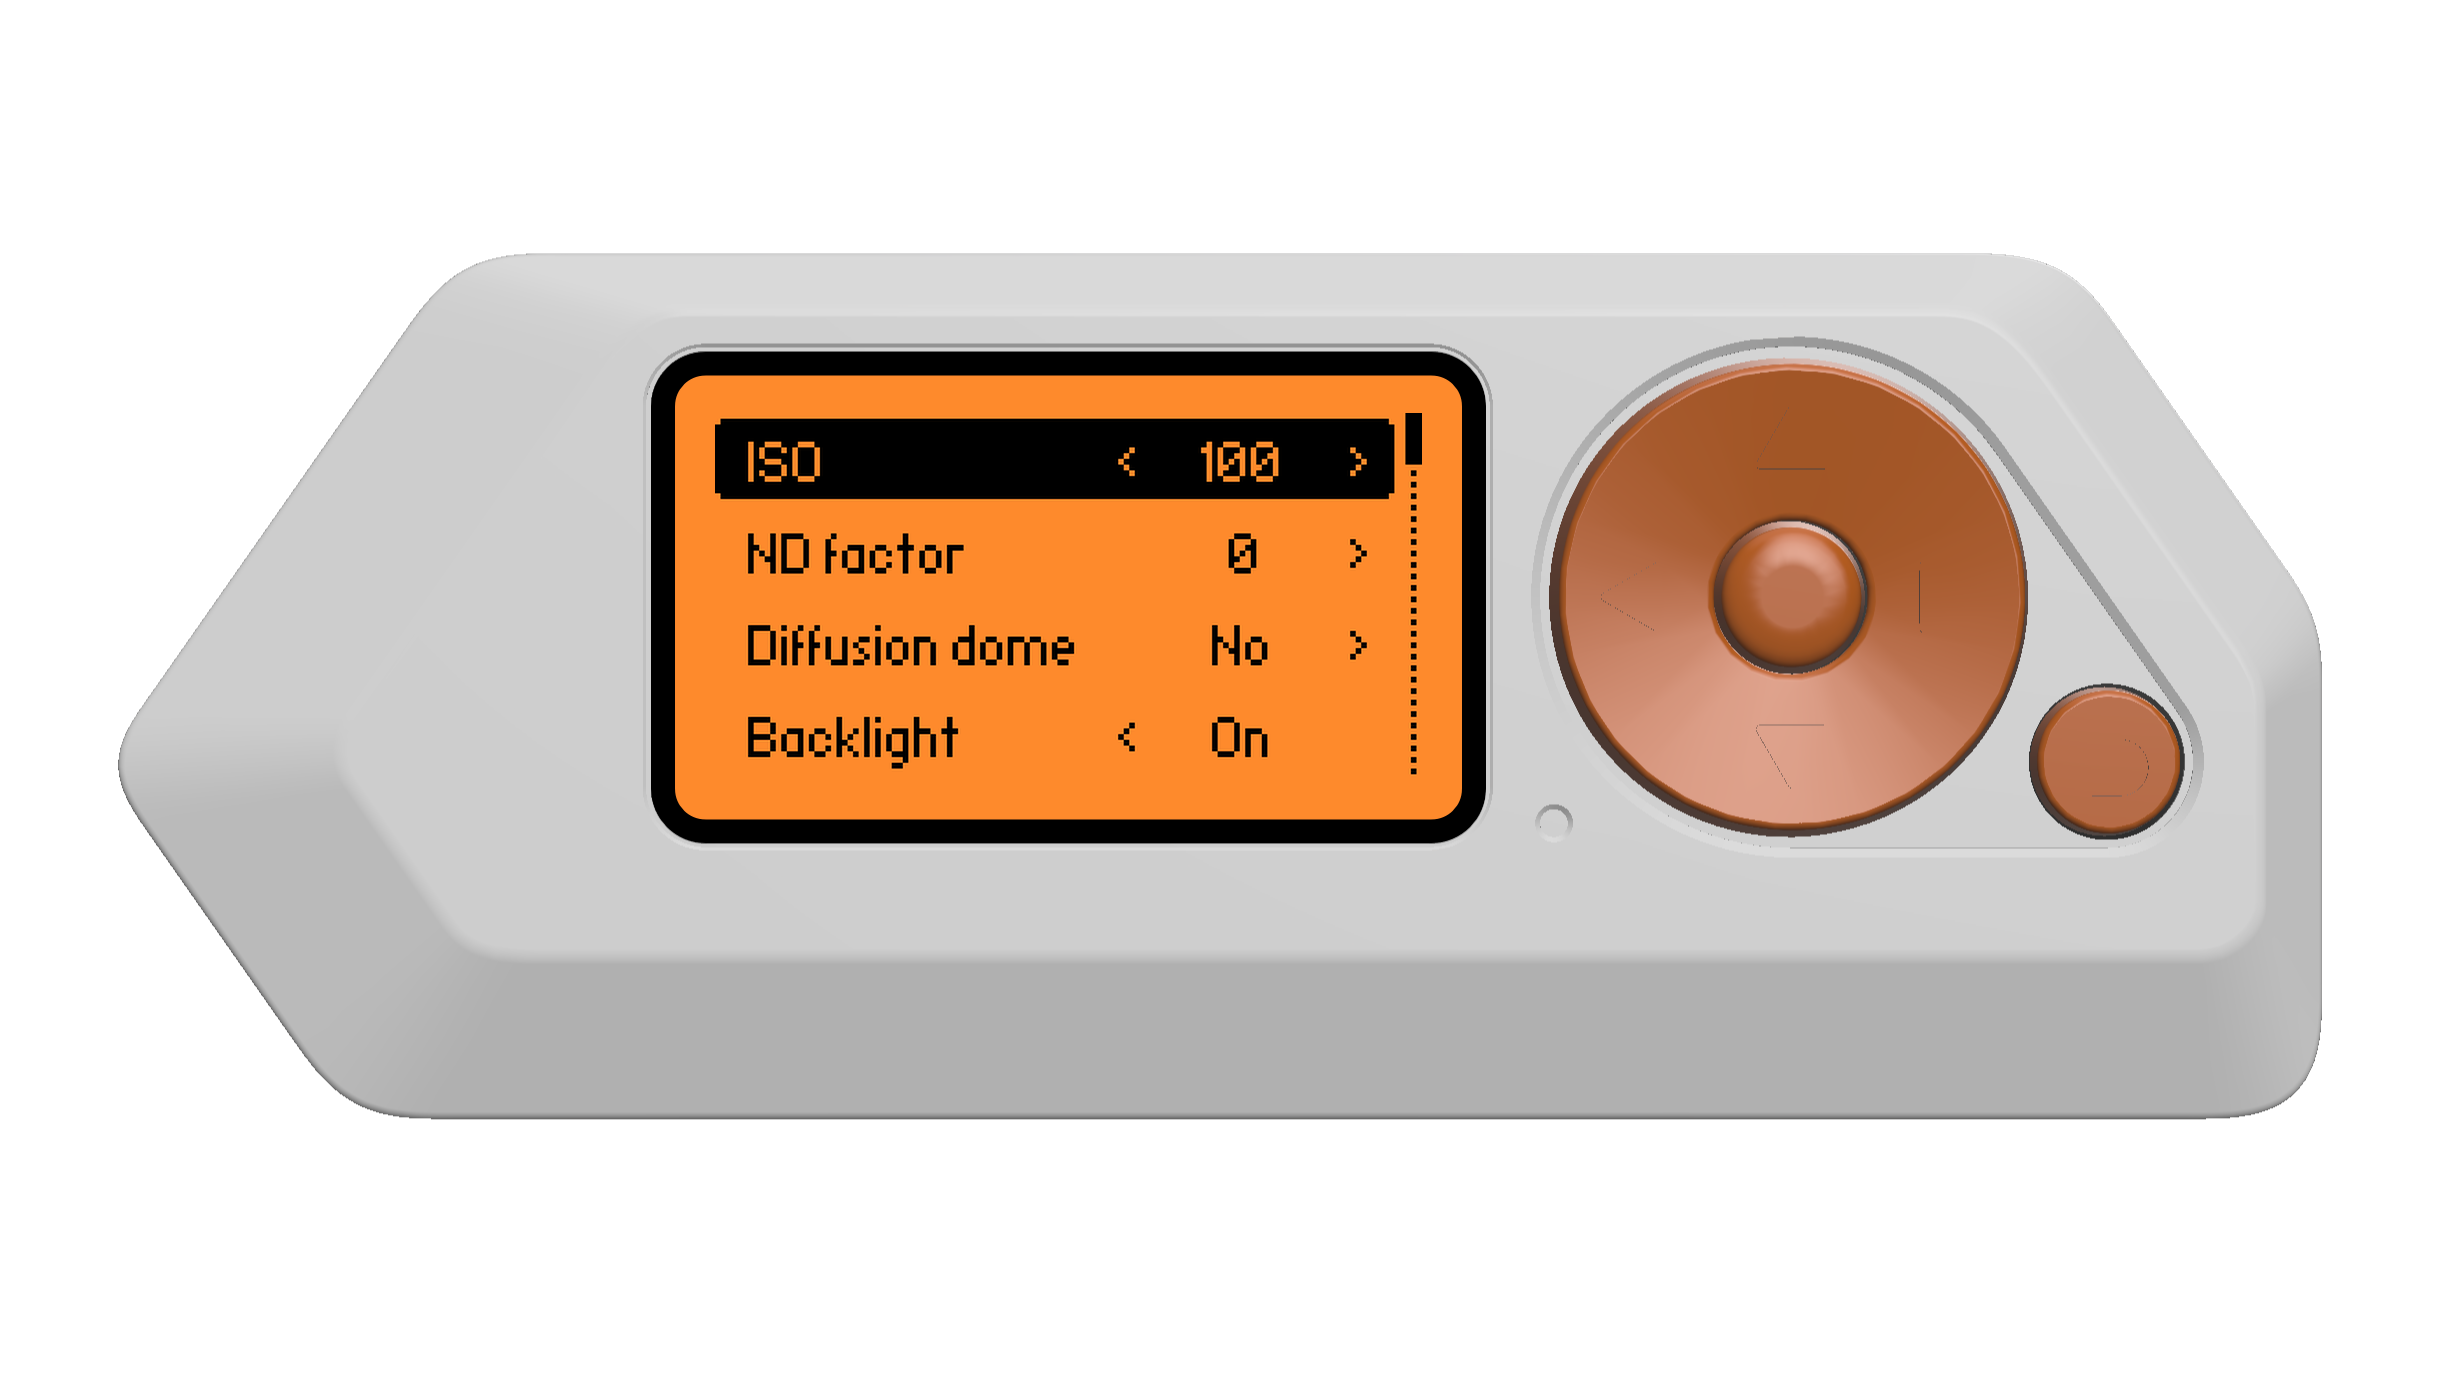
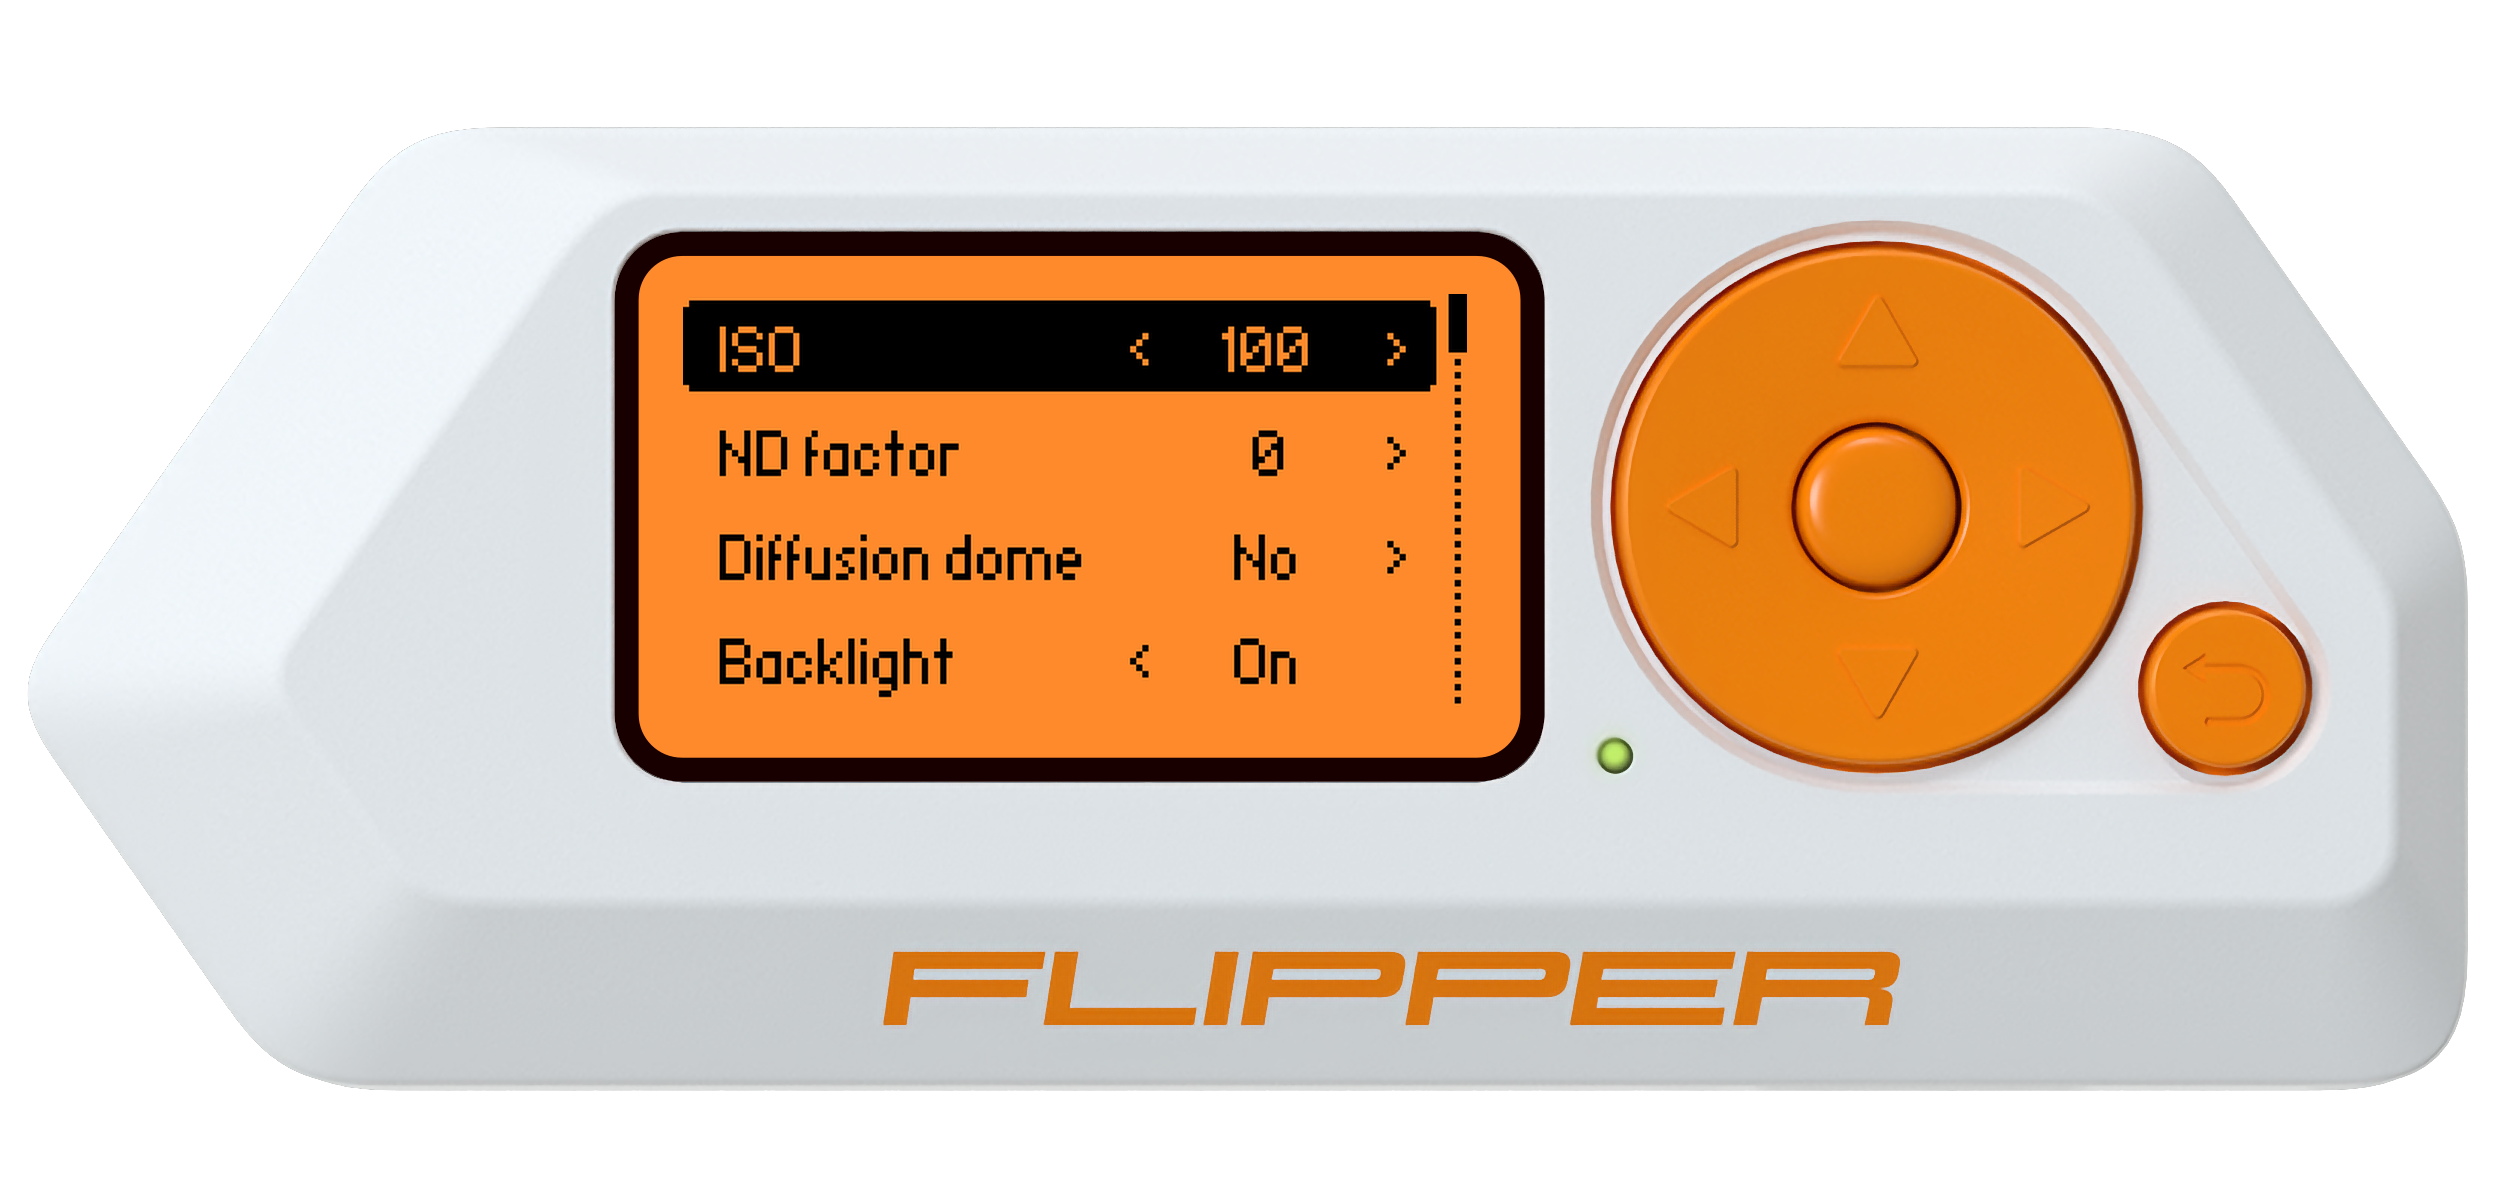
Update images and add badge for download (#36)

diff --git a/README.md b/README.md
@@ -2,6 +2,8 @@
 
 [![Build FAP](https://github.com/oleksiikutuzov/flipperzero-lightmeter/actions/workflows/build.yml/badge.svg?branch=main)](https://github.com/oleksiikutuzov/flipperzero-lightmeter/actions/workflows/build.yml)
 
+Download: [![FAP Factory](https://flipc.org/api/v1/oleksiikutuzov/flipperzero-lightmeter/badge?root=application)](https://flipc.org/oleksiikutuzov/flipperzero-lightmeter?root=application)
+
 <img src="images/framed_gui_main.png" width="500px">
 
 <img src="images/framed_gui_lux_meter.png" width="500px">
